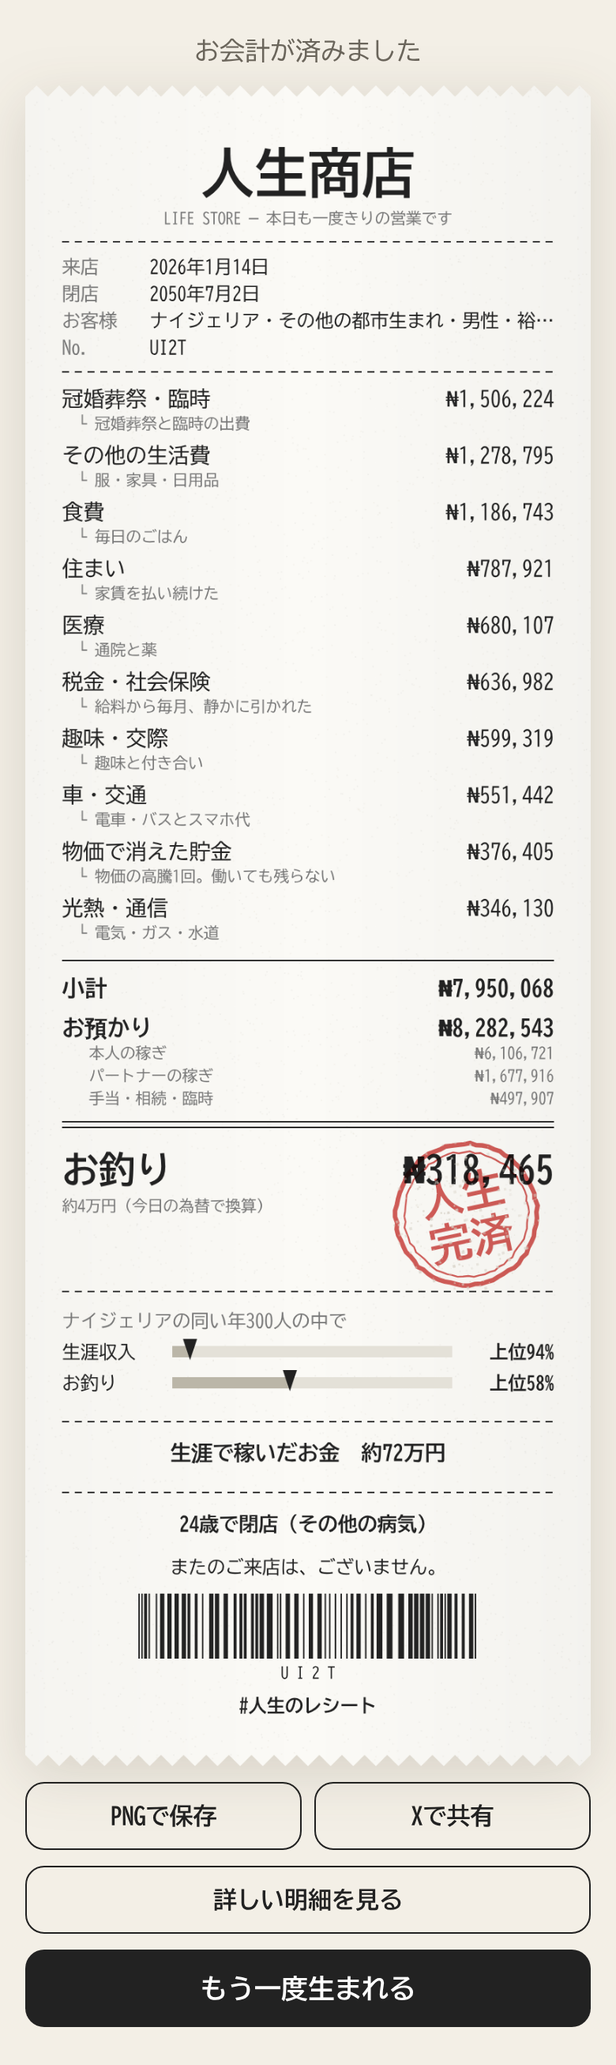
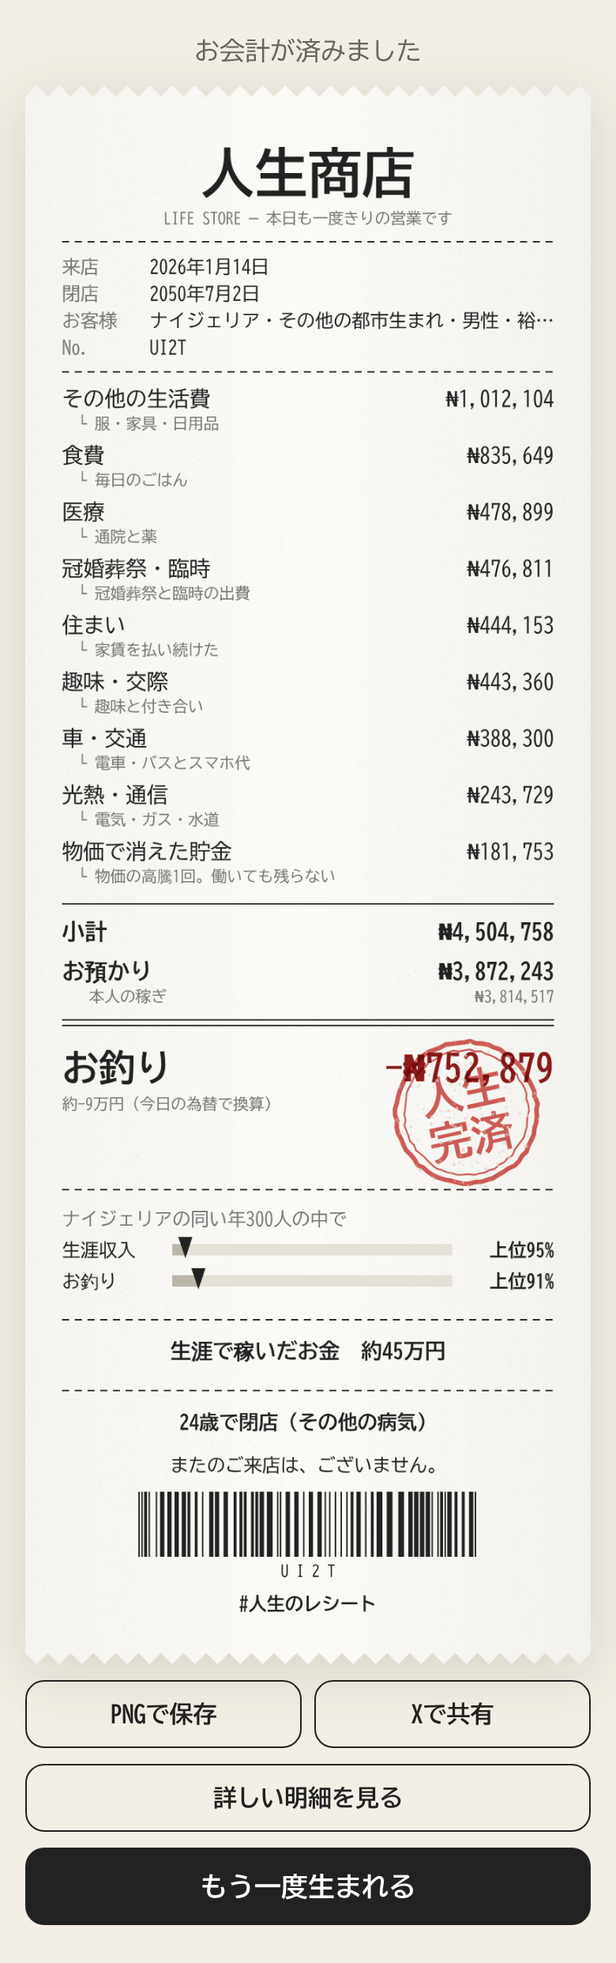
結婚までを段階的にし、家族の人数を表示。ひとり暮らし向けの小さな選択を分ける
- 出会い → 恋人として付き合う → 結婚の話、と段階を踏む（別れや、結婚しないと決めたあとの出会いもある）
- 画面の上に、いま一緒に暮らしている家族の人数と内訳を表示
- 「人生のしまい方」「知らない番号からの電話」を、パートナーも子どももいない人向けの内容に分けた
- 米ドルなど1単位が大きい通貨で、レシートの項目が消える不具合を直した

Claude-Session: https://claude.ai/code/session_01P8h7G7H9Hz4F9jwmunJGJH

diff --git a/src/engine/sim.ts b/src/engine/sim.ts
@@ -5,7 +5,7 @@ import { JAPAN, type CountryData, type Region, type IncomeBand } from "./data";
 import { MICROS } from "./micro";
 import { riskYear, countryEventScene, ipvHazard } from "./risks";
 import { kidsScene, kidsAgainScene, fertilityScene, strainScene, dvScene, type Scene } from "./scenes";
-import { drawMarriageMode, loveScene, arrangedScene, betrothedScene, type MarriageMode } from "./marriage";
+import { drawMarriageMode, meetScene, loveScene, arrangedScene, betrothedScene, type MarriageMode } from "./marriage";
 import type {
   Choice,
   ChoiceId,
@@ -142,6 +142,9 @@ export class Life {
   arrangedAge = 25;
   /** この年齢までは結婚の話が来ない（「まだ結婚しない」を選んだあとなど） */
   marriageDelayUntil = -1;
+  /** 恋人と付き合っている（結婚の前の段階） */
+  dating = false;
+  datingSince = -1;
   kids: { born: number; privateSchool: boolean; univ: boolean; away: boolean; decided?: boolean; loan?: boolean }[] = [];
   home: Home = "parents";
   loan = 0;
@@ -235,6 +238,38 @@ export class Life {
   /** いま一緒にいるきょうだいの数（まだ生まれていない弟妹は数えない） */
   get siblingsNow(): number {
     return this.sibs.filter((x) => x.born <= this.age).length;
+  }
+
+  /** いま一緒に暮らしている家族（自分を含む）。実家にいる間は親ときょうだい、家を出たあとはパートナーと巣立つ前の子ども */
+  get household(): string[] {
+    const a = this.age;
+    const out = ["自分"];
+    const p = this.partner;
+    if (p && p.alive) out.push(p.sex === "male" ? "夫" : "妻");
+    const kidsHome = this.kids.filter((k) => a - k.born < (k.univ ? 22 : 18)).length;
+    if (kidsHome) out.push(`子ども${kidsHome}人`);
+    if (this.home === "parents") {
+      if (this.parents[0].alive) out.push("父");
+      if (this.parents[1].alive) out.push("母");
+      // きょうだいは22歳くらいで家を出る
+      const counts = new Map<string, number>();
+      for (const x of this.sibs) {
+        const sa = a - x.born;
+        if (x.born > a || sa >= 22) continue;
+        const w = x.born < 0 ? (x.sex === "male" ? "兄" : "姉") : x.sex === "male" ? "弟" : "妹";
+        counts.set(w, (counts.get(w) ?? 0) + 1);
+      }
+      for (const w of ["兄", "姉", "弟", "妹"]) {
+        const n = counts.get(w);
+        if (n) out.push(n > 1 ? `${w}${n}人` : w);
+      }
+    }
+    return out;
+  }
+
+  /** household の人数 */
+  get householdSize(): number {
+    return this.household.reduce((t, w) => t + (/(\d+)人$/.test(w) ? Number(/(\d+)人$/.exec(w)![1]) : 1), 0);
   }
 
   /** 円で考えた金額を、この国の通貨の目安に直す */
@@ -428,7 +463,7 @@ export class Life {
       return buildChoice(this, "parentCare");
     if (!this.made("retire") && a >= 60 && this.made("parentCare")) return buildChoice(this, "retire");
     // 結婚の話を待っている間に、別の形で結婚した場合は、その話は消える
-    while (this.sceneQueue.length && this.partner && ["propose", "arranged", "betrothed"].includes(this.sceneQueue[0].id)) this.sceneQueue.shift();
+    while (this.sceneQueue.length && this.partner && ["meet", "propose", "arranged", "betrothed"].includes(this.sceneQueue[0].id)) this.sceneQueue.shift();
     const sc = this.sceneQueue[0];
     if (sc)
       return {
@@ -657,15 +692,23 @@ export class Life {
         this.strained = false;
         this.dvOngoing = false;
       }
-    } else if (!this.noMarry && !this.partner && a >= 18 && a < 60 && a >= this.marriageDelayUntil) {
-      // 結婚の話は、国の結婚のしかたに合わせて来る。結婚するかどうかは選択の場面で決める
-      if (this.marriageMode === "betrothed" && a >= this.arrangedAge) this.queueScene(betrothedScene(this));
-      else if (this.marriageMode === "arranged" && a >= this.arrangedAge && a < 45 && r.chance(0.5)) this.queueScene(arrangedScene(this));
-      else if (a < 30 && this.school === "done" && !this.made("marriageHome")) {
-        // 30歳の選択より前に、自分で見つけた相手と結婚の話になることもある
-        if (r.chance(this.marriageHazard(a) * (this.marriageMode === "love" ? 1.15 : 0.3))) this.queueScene(loveScene(this));
-      } else if (a >= 30 && r.chance(this.marriageHazard(a) * (a < this.marriageBoostUntil ? this.marriageBoost : 1))) {
-        this.queueScene(loveScene(this));
+    } else if (!this.partner && a >= 18 && a < 60 && a >= this.marriageDelayUntil) {
+      // 結婚は「出会い → 付き合う → 結婚の話」と段階を踏む。家族が相手を決める国では縁談や許嫁の話が来る
+      if (!this.noMarry && this.marriageMode === "betrothed" && a >= this.arrangedAge) this.queueScene(betrothedScene(this));
+      else if (!this.noMarry && this.marriageMode === "arranged" && a >= this.arrangedAge && a < 45 && !this.dating && r.chance(0.5))
+        this.queueScene(arrangedScene(this));
+      else if (this.dating) {
+        // 付き合っている間：別れることもあれば、結婚の話になることもある
+        if (r.chance(0.12)) {
+          this.dating = false;
+          this.log("family", "恋人と別れた。");
+        } else if (a - this.datingSince >= 1 && r.chance(0.55)) this.queueScene(loveScene(this));
+      } else if (a >= 30 || (this.school === "done" && !this.made("marriageHome"))) {
+        // 出会い。結婚しないと決めた人にも、まれにいい出会いはある
+        const boost = a < this.marriageBoostUntil ? this.marriageBoost : 1;
+        const mode = this.marriageMode === "love" ? 4 : 0.9;
+        // 付き合ってから結婚まで2年ほどかかるので、2年先の結婚しやすさで出会いが起きる
+        if (r.chance(this.marriageHazard(a + 2) * mode * boost * (this.noMarry ? 0.25 : 1))) this.queueScene(meetScene(this));
       }
     }
     // 子どもの節目
@@ -707,6 +750,8 @@ export class Life {
     const edu: Edu = r.weighted(["high_school", "vocational", "university"], [0.35, 0.25, 0.4]);
     this.partner = { sex: other, age: pAge, edu, work, alive: true };
     this.partnerSince = this.age;
+    this.dating = false;
+    this.noMarry = false;
     this.kidsPlan = "undecided";
     this.log("family", `${text}（相手は${pAge}歳）`, undefined, true);
     this.queueScene(kidsScene(this));
@@ -1490,9 +1535,9 @@ export function buildChoice(l: Life, id: ChoiceId): Choice {
         );
         if (l.parents.some((x) => x.alive)) options.push(opt("withParents", "親と二世帯で住む", "住居費が浮き、子育ての手も借りられる。気をつかう暮らし。"));
       } else {
-        const met = r.chance(0.32 * l.marriageHazard(a) / Math.max(0.01, l.D.ev.marriageByAge["30s"]));
+        const met = l.dating || r.chance(0.32 * l.marriageHazard(a) / Math.max(0.01, l.D.ev.marriageByAge["30s"]));
         if (met) {
-          situation = "付き合っている人から、将来の話をされた。";
+          situation = l.dating ? `付き合って${Math.max(1, a - l.datingSince)}年の恋人から、将来の話をされた。` : "付き合っている人から、将来の話をされた。";
           options.push(
             opt("marryRent", "結婚して賃貸で暮らす", "二人の収入で暮らしが安定しやすい。出費も増える。"),
             opt("marryBuy", "結婚して家を買う", "持ち家で落ち着ける。ローンが長く続く。"),
@@ -1759,6 +1804,8 @@ function applyChoice(l: Life, id: ChoiceId, o: string, r: Rng): void {
         else l.home = "rent";
       } else if (o === "single" || o === "solo") {
         l.noMarry = true;
+        if (l.dating) l.logPre("family", "恋人とは別々の道を歩むことにした。");
+        l.dating = false;
         if (l.home === "parents") l.home = "rent";
       } else if (o === "konkatsu") {
         l.spend("events", l.y(300_000));
@@ -1895,6 +1942,7 @@ export function replay(seed: string, picks: string[], country: CountryData = JAP
 
 /** 選択をランダムに（決定的に）行う自動プレイ。同い年の比較用 */
 const AUTO_WEIGHTS: Record<string, number[]> = {
+  "ev:meet": [0.72, 0.18, 0.1],
   "ev:propose": [0.5, 0.35, 0.12, 0.03],
   "ev:arranged": [0.7, 0.22, 0.08],
   "ev:betrothed": [0.92, 0.08],

diff --git a/src/engine/marriage.ts b/src/engine/marriage.ts
@@ -85,13 +85,66 @@ function customLine(l: Life): string {
   return n.payment === "none" || n.paymentYears <= 0 ? "" : `${l.D.isJapan ? "" : `${l.D.nameJa}では`}${PAY_WORD[n.payment]}。`;
 }
 
-/** 自分で見つけた相手と、結婚の話が出たとき */
+/** 気になる人ができたとき（付き合うかどうか） */
+export function meetScene(l: Life): Scene {
+  const a = l.age;
+  const again = l.widowed || l.partnerSince >= 0;
+  const where = again
+    ? "ひとりの暮らしにも慣れたころ、気になる人ができた。"
+    : l.noMarry
+      ? "結婚はしないと決めていたが、ある日、いい人に出会った。"
+      : a < 23 && l.school !== "done"
+        ? "同じ学校に、気になる人ができた。"
+        : ["職場に、気の合う人ができた。", "友だちの紹介で会った人と、話が弾んだ。", "趣味の集まりで、気になる人ができた。"][a % 3];
+  return {
+    id: "meet",
+    title: "出会い",
+    situation: where,
+    options: [
+      {
+        id: "ask",
+        label: "食事に誘ってみる",
+        desc: "うまくいけば付き合える。断られることもある。",
+        apply: (l, r) => {
+          if (r.chance(0.75)) {
+            l.dating = true;
+            l.datingSince = l.age;
+            l.logPre("family", "食事に誘い、付き合いはじめた。");
+          } else {
+            l.marriageDelayUntil = l.age + 1;
+            l.logPre("family", "勇気を出して誘ったが、うまくいかなかった。");
+          }
+        },
+      },
+      {
+        id: "friend",
+        label: "友だちのままでいる",
+        desc: "気楽な関係のまま。この先どうなるかは分からない。",
+        apply: (l, r) => {
+          l.marriageDelayUntil = l.age + r.int(1, 2);
+          l.logPre("family", "友だちのままでいることにした。");
+        },
+      },
+      {
+        id: "focus",
+        label: "今は自分のことを優先する",
+        desc: "仕事や勉強、趣味に打ち込める。出会いはしばらく遠のく。",
+        apply: (l, r) => {
+          l.marriageDelayUntil = l.age + r.int(3, 5);
+          l.logPre("family", "今は恋愛より自分のことを優先すると決めた。");
+        },
+      },
+    ],
+  };
+}
+
+/** 付き合っている恋人と、結婚の話が出たとき */
 export function loveScene(l: Life): Scene {
-  const years = 1 + (l.age % 4);
+  const years = Math.max(1, l.age - l.datingSince);
   return {
     id: "propose",
     title: "結婚のこと",
-    situation: `付き合って${years}年になる相手と、結婚の話が出た。${customLine(l)}`,
+    situation: `付き合って${years}年になる恋人と、結婚の話が出た。${customLine(l)}`,
     options: [
       {
         id: "wedding",
@@ -107,21 +160,24 @@ export function loveScene(l: Life): Scene {
       },
       {
         id: "wait",
-        label: "まだ結婚しない",
-        desc: "仕事や自分の時間を優先する。この相手とは続かないかもしれない。",
+        label: "結婚はまだ先にする",
+        desc: "恋人のまま付き合いを続ける。待たせるうちに、気持ちが離れることもある。",
         apply: (l, r) => {
-          l.marriageDelayUntil = l.age + r.int(3, 6);
-          l.logPre("family", "結婚はまだ先にしようと伝えた。");
-          if (r.chance(0.5)) l.logPre("family", "しばらくして、相手とは別れることになった。");
+          l.marriageDelayUntil = l.age + r.int(2, 3);
+          if (r.chance(0.3)) {
+            l.dating = false;
+            l.logPre("family", "結婚はまだ先にしたいと伝えた。しばらくして、恋人とは別れることになった。");
+          } else l.logPre("family", "結婚はまだ先にしたいと伝え、恋人のまま付き合いを続けることにした。");
         },
       },
       {
-        id: "never",
-        label: "結婚しない生き方を選ぶ",
-        desc: "自由に使えるお金と時間。老後は一人で備える。",
-        apply: (l) => {
-          l.noMarry = true;
-          l.logPre("family", "結婚はしないで生きていくと決めた。");
+        id: "breakup",
+        label: "別れる",
+        desc: "この人とは結婚しないと決める。また別の出会いがあるかもしれない。",
+        apply: (l, r) => {
+          l.dating = false;
+          l.marriageDelayUntil = l.age + r.int(1, 2);
+          l.logPre("family", "この人とは結婚しないと決め、別れた。");
         },
       },
     ],

diff --git a/src/engine/micro.ts b/src/engine/micro.ts
@@ -25,6 +25,8 @@ export interface Micro {
 }
 
 const working = (l: Life) => l.job !== "none" && l.job !== "retired" && l.school === "done";
+/** パートナーも子どももいない */
+const alone = (l: Life) => !(l.partner && l.partner.alive) && l.kids.length === 0;
 const company = (l: Life) => l.job === "big" || l.job === "sme" || l.job === "civil";
 const poorCountry = (l: Life) => l.D.inst !== null && (l.D.inst.incomeGroup === "LIC" || l.D.inst.incomeGroup === "LMC");
 const hasKids = (l: Life) => l.kids.some((k) => l.age - k.born < 18);
@@ -339,6 +341,7 @@ export const MICROS: Micro[] = [
     id: "scamCall",
     min: 60,
     max: 90,
+    when: (l) => l.kids.length > 0,
     title: "知らない番号からの電話",
     situation: () => "「息子だけど、会社のお金をなくして…」と電話がかかってきた。",
     options: [
@@ -374,11 +377,36 @@ export const MICROS: Micro[] = [
     id: "endPlan",
     min: 65,
     max: 90,
+    when: (l) => !alone(l),
     title: "人生のしまい方",
     situation: () => "友人の葬儀に出て、自分の最期のことを考えた。",
     options: [
       { id: "a", label: "葬儀やお墓を準備しておく", desc: "家族の負担が減る。今お金がかかる。", apply: (l) => { l.spend("events", l.y(500_000)); l.prepaidFuneral = true; l.logPre("life", "葬儀の準備と遺言を済ませた。", -l.y(500_000)); } },
       { id: "b", label: "まだ考えない", desc: "今は払わずに済む。家族があとで困るかも。", apply: (l) => { l.logPre("life", "まだ先のことだと、考えるのをやめた。"); } },
+    ],
+  },
+  {
+    id: "scamCallSolo",
+    min: 60,
+    max: 90,
+    when: (l) => l.kids.length === 0,
+    title: "知らない番号からの電話",
+    situation: () => "「役所の者です。医療費の払い戻しがあるので、今からATMへ行ってください」と電話がかかってきた。",
+    options: [
+      { id: "a", label: "電話を切って役所に確かめる", desc: "落ち着いて確かめる。手間はかかる。", apply: (l) => { l.logPre("life", "役所に確かめると、そんな払い戻しはなかった。詐欺の電話だった。"); } },
+      { id: "b", label: "言われたとおりATMへ行く", desc: "本当ならお金が戻る。だまされることも。", apply: (l, r) => { if (r.chance(0.9)) { const c = Math.min(Math.max(0, l.cash), l.y(1_000_000)); l.spend("other", c); l.logPre("money", "電話は詐欺だった。振り込んだお金は戻らなかった。", -c, true); } else l.logPre("money", "本当に払い戻しの手続きだった。"); } },
+    ],
+  },
+  {
+    id: "endPlanSolo",
+    min: 65,
+    max: 90,
+    when: (l) => alone(l),
+    title: "人生のしまい方",
+    situation: () => "ひとりで暮らしている。もしものとき、誰が後のことをしてくれるのか考えた。",
+    options: [
+      { id: "a", label: "葬儀や身の回りの整理を契約しておく", desc: "亡くなったあとの手続きを任せられる。今お金がかかる。", apply: (l) => { l.spend("events", l.y(500_000)); l.prepaidFuneral = true; l.logPre("life", "葬儀と身の回りの整理を、前もって契約しておいた。", -l.y(500_000)); } },
+      { id: "b", label: "まだ考えない", desc: "今は払わずに済む。あとの手続きは周りの人が困るかも。", apply: (l) => { l.logPre("life", "まだ先のことだと、考えるのをやめた。"); } },
     ],
   },
   {

diff --git a/src/main.ts b/src/main.ts
@@ -142,6 +142,7 @@ class Game {
           <div><label>今年の収入</label><b id="inc">0円</b></div>
           <div><label>今年の支出</label><b id="exp">0円</b></div>
         </div>
+        <div class="family" id="fam"></div>
         <div class="bar"><i id="prog"></i></div>
       </div>
       <div class="feed" id="feed"></div>
@@ -226,10 +227,10 @@ class Game {
     q("age").innerHTML = `${age}<small>歳</small>`;
     q("year").innerHTML = `${l.birthYear + age}年<br>${esc(l.region.label)}`;
     const status = l.school !== "done" && l.school !== "child" ? l.schoolName() + "に在学中" : age < 6 ? "未就学" : age < 15 ? (age < 12 ? "小学生" : "中学生") : jobLabel(l.job);
-    const fam = l.partner ? "・配偶者あり" : "";
-    const kids = l.kids.length ? `・子ども${l.kids.length}人` : "";
     const home = l.home === "own" ? "・持ち家" : l.home === "rent" ? "・賃貸" : "・実家";
-    q("status").textContent = `${status}${fam}${kids}${home}`;
+    q("status").textContent = `${status}${home}${l.dating && !l.partner ? "・恋人あり" : ""}`;
+    // 一緒に暮らしている家族（実家にいる間は親ときょうだい、家を出たあとはパートナーと巣立つ前の子ども）
+    q("fam").innerHTML = `<label>家族</label><b>${l.householdSize}人</b><span>${esc(l.household.join("・"))}</span>`;
     const bal = rec ? rec.balance : l.balance;
     q("bal").innerHTML = `${esc(l.D.fmt(bal, false))}${l.D.isJapan ? "" : `<small>約${esc(yenShort(l.D.toJpy(bal)))}</small>`}`;
     q("bal").className = bal < 0 ? "minus" : "";

diff --git a/src/engine/result.ts b/src/engine/result.ts
@@ -142,7 +142,8 @@ export function buildReceipt(l: Life): ReceiptData {
   const order: ExpenseCat[] = ["housing", "food", "tax", "kids", "car", "fun", "other", "utilities", "medical", "care", "selfEdu", "events", "inflation"];
   const items: ReceiptItem[] = order
     .map((k) => ({ label: EXPENSE_LABEL[k], amount: Math.round(s.expenseTotal[k] ?? 0), memo: memoFor(l, k, s.expenseTotal[k] ?? 0) }))
-    .filter((it) => it.amount >= 10_000)
+    // 1万円未満の項目は省く（米ドルなど1単位が大きい通貨でも同じ基準になるよう、円に直して比べる）
+    .filter((it) => l.D.toJpy(it.amount) >= 10_000)
     .sort((a, b) => b.amount - a.amount);
   const subtotal = items.reduce((t, i) => t + i.amount, 0);
   const inv = Math.round(s.incomeTotal.invest ?? 0);
@@ -152,7 +153,7 @@ export function buildReceipt(l: Life): ReceiptData {
     { label: "年金・退職金", amount: Math.round(s.incomeTotal.pension ?? 0) },
     { label: "手当・相続・臨時", amount: Math.round(s.incomeTotal.windfall ?? 0) },
     { label: "運用損益", amount: inv },
-  ].filter((d) => Math.abs(d.amount) >= 10_000);
+  ].filter((d) => Math.abs(l.D.toJpy(d.amount)) >= 10_000);
   const sexWord = s.sex === "male" ? "男性" : "女性";
   return {
     receiptNo: s.seed.toUpperCase(),

diff --git a/src/style.css b/src/style.css
@@ -568,3 +568,23 @@ button {
 .sheet.small h2 {
   font-size: 18px;
 }
+
+.hud .family {
+  display: flex;
+  align-items: baseline;
+  gap: 8px;
+  margin-top: 6px;
+  font-size: 12px;
+  color: var(--sub);
+  white-space: nowrap;
+  overflow: hidden;
+  text-overflow: ellipsis;
+}
+.hud .family b {
+  color: var(--ink, inherit);
+  font-size: 14px;
+}
+.hud .family span {
+  overflow: hidden;
+  text-overflow: ellipsis;
+}

diff --git a/README.md b/README.md
@@ -19,12 +19,13 @@
    - **小さな選択（1〜3年ごと）**：お小遣い、部活、アルバイト、ボーナスの使い道、副業の誘い、海外への出稼ぎ、家畜を買う、暗号資産、詐欺電話など26種類。国・年齢・状況で出るものが変わる。
    - **人生の出来事から生まれる選択**：結婚したら「子どもを持つか（ほしい／しばらく二人で／持たない）」、授からないときは不妊治療をするか。夫婦のすれ違いでは「話し合う／カウンセリング／別れる」（いきなり離婚はしない）。パートナーの暴力では「相談窓口の支援で家を出る／家族に相談／様子を見る」（描写はせず、日本では相談先 #8008 を表示）。
    - **国ごとの出来事（110種類）**：ナイジェリアの燃料費高騰、インドのモンスーン洪水、米国の医療費、韓国の塾代、フィリピンの海外就労など、その国の暮らしでよく起きることを選択つきで。
-   - **結婚の場面**：結婚の話が来ると「結婚する（式を挙げる／挙げない）・まだしない・しない生き方」を選ぶ。家族が相手を決めることが多い国では縁談（日本ではお見合い）が来て、一部の国では子どものころに許嫁が決まる。持参金（ダウリー）・婚資（ブライドプライス・マフル）のやりとりも国の習わしで起きる。国ごとの目安は data/world/marriage.json（今は地域ごとの推定）。結婚はゲームの中では18歳以上だけで起きる。
+   - **結婚の場面**：自分で相手を見つける国では「出会い（食事に誘う・友だちのまま・自分のことを優先）→ 恋人として付き合う（別れることもある）→ 結婚の話（式を挙げて／挙げずに結婚・まだ先にする・別れる）」と段階を踏む。結婚しないと決めたあとでも、まれにいい出会いがある。家族が相手を決めることが多い国では縁談（日本ではお見合い）が来て、一部の国では子どものころに許嫁が決まる。持参金（ダウリー）・婚資（ブライドプライス・マフル）のやりとりも国の習わしで起きる。国ごとの目安は data/world/marriage.json（今は地域ごとの推定）。結婚はゲームの中では18歳以上だけで起きる。
    - **統計にもとづく出来事**：物価の暴騰（通貨の価値が急落）、盗難・強盗、政情不安、紛争による避難、感染症、干ばつ、洪水・地震。起こりやすさはその国のインフレ率・殺人率・政治の安定度などから決まる。物価が荒れやすい国では「ドルや金で貯める」選択も出る。毎年の物価上昇率は、その国で実際に記録された年の値をひと続きで借りてくる（例：「物価が1年で42%上がった（イランで2025年に実際に記録された上昇率）」）。物価で目減りした現金は、レシートに「物価で消えた貯金」として別の行で出る。レシート画像の下の方には「生涯で稼いだお金　約◯◯円」が入り、Xの投稿文も「イランに生まれ、生涯で稼いだお金は約803万円。」のように始まる（本人の稼ぎだけ。パートナーの稼ぎ・年金・手当は含めない）。リンクを共有したときのプレビュー画像は public/og.png（`node scripts/ogimage.mjs` で作り直せる）。
    - どの道にも得と損の両方がある。正解はない。
 6. 亡くなるとレシートが発行される。金額は現地通貨（日本以外は円換算も併記）。**PNGで保存**／**Xで共有**／**詳しい明細を見る** ができる。
 
 - 同じシードなら同じ人生：`/?seed=好きな文字列`（タイトルでモードを選ぶ）
+- 画面の上に、いま一緒に暮らしている家族（実家にいる間は親ときょうだい、家を出たあとはパートナーと巣立つ前の子ども）の人数を出す。
 - 詳細ページ `r.html#3.<モード j|m|w>.<シード>.<選んだ番号>` はURLだけで人生を再現する（サーバー不要）。
 
 ### レシートのはんこ
